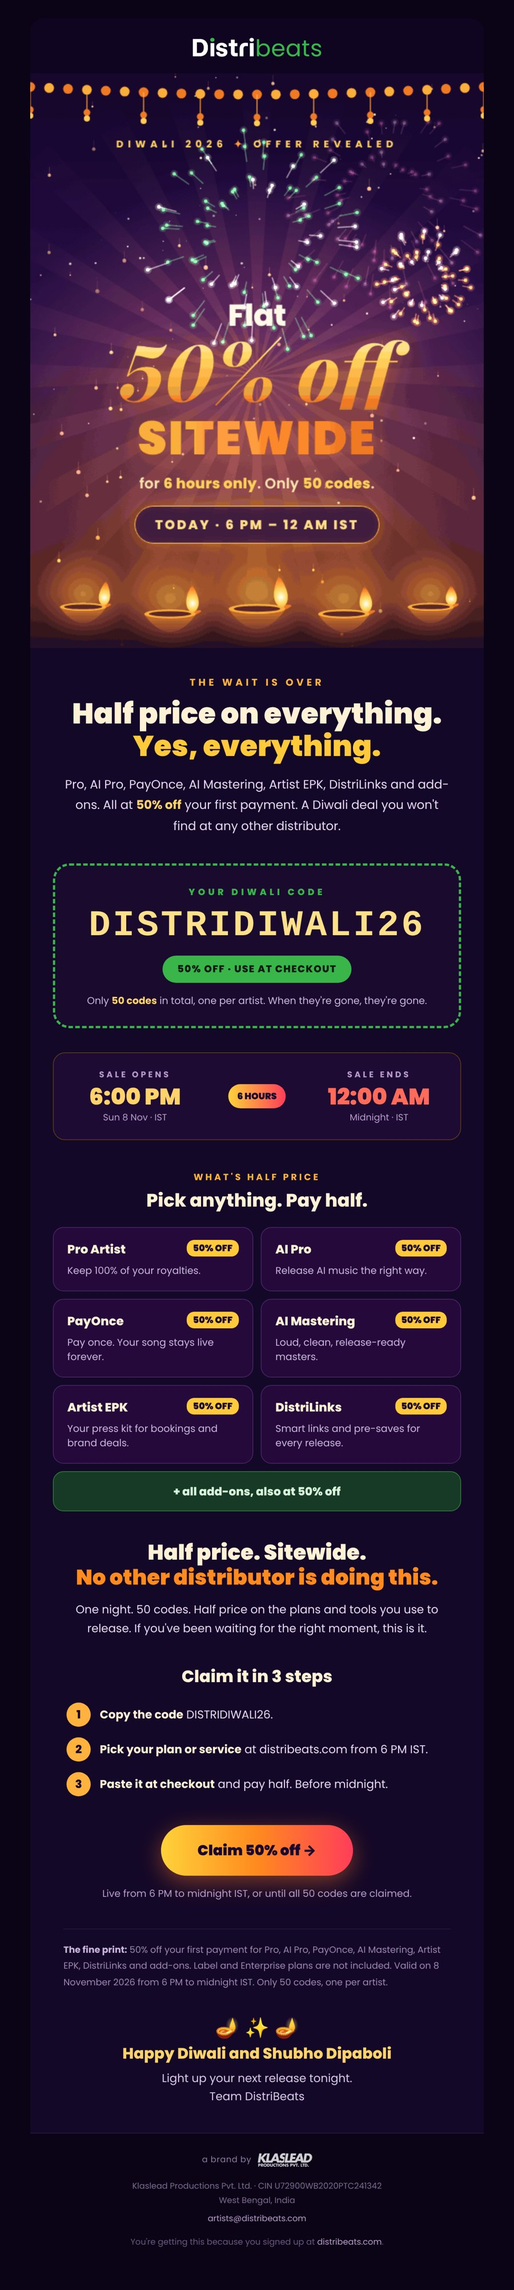
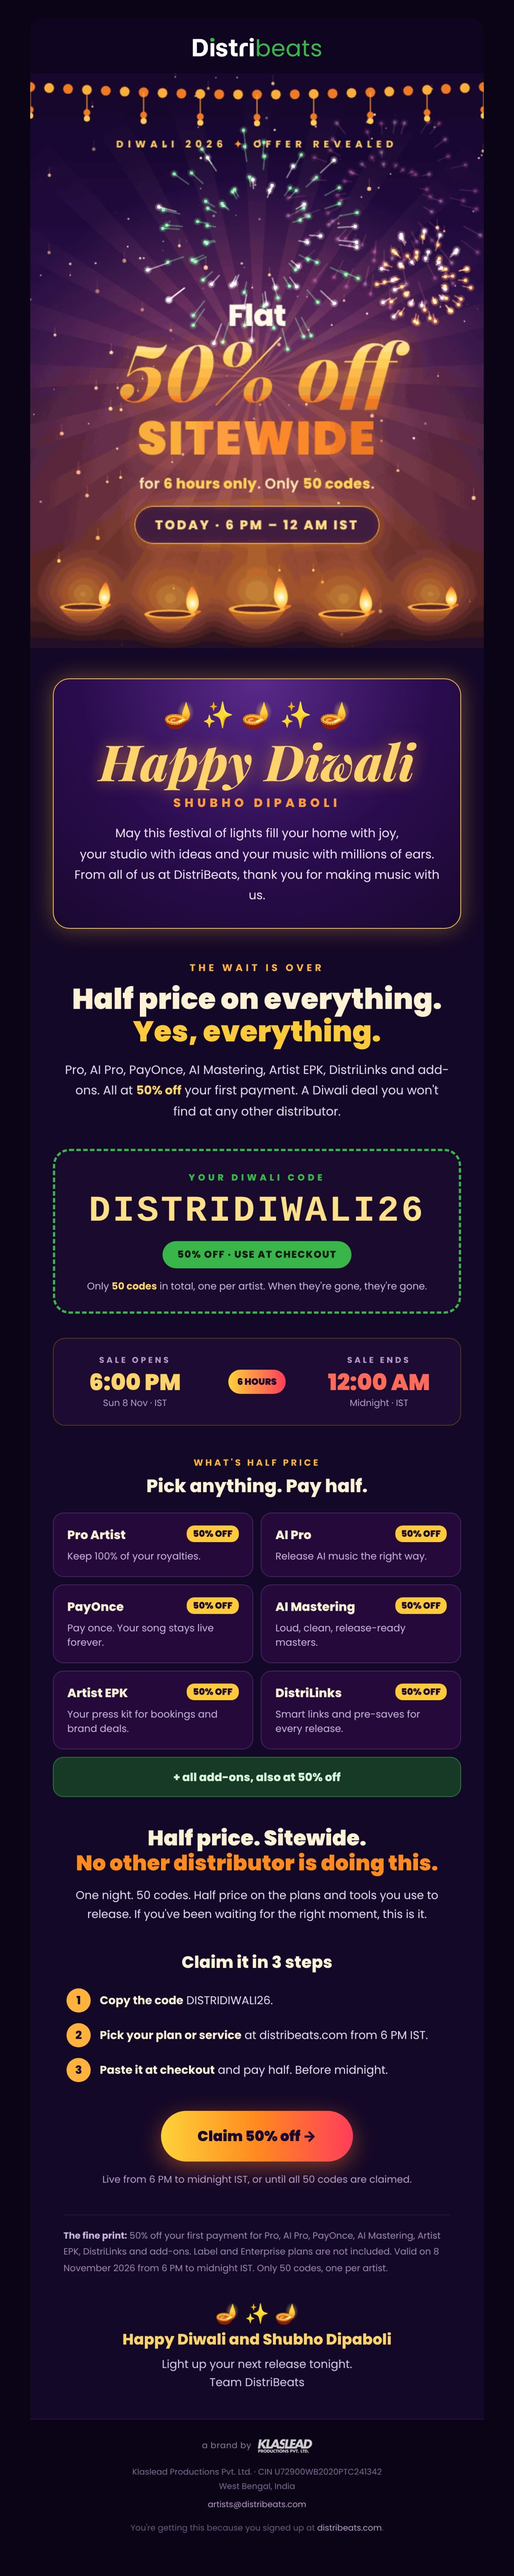
50% off newsletter: add big Happy Diwali wish
Claude-Session: https://claude.ai/code/session_01A8thwr9eD2xAMvqyaZCdxQ

diff --git a/newsletters/2026-11-08-diwali-50-off/newsletter.html b/newsletters/2026-11-08-diwali-50-off/newsletter.html
@@ -6,7 +6,7 @@
 <meta name="x-apple-disable-message-reformatting">
 <meta name="color-scheme" content="dark">
 <meta name="supported-color-schemes" content="dark">
-<link href="https://fonts.googleapis.com/css2?family=Poppins:wght@400;600;700;800;900&display=swap" rel="stylesheet">
+<link href="https://fonts.googleapis.com/css2?family=Poppins:wght@400;600;700;800;900&family=Playfair+Display:ital,wght@1,800&display=swap" rel="stylesheet">
 <title>Flat 50% off sitewide, 6 hours only</title>
 <style>
   body{margin:0;padding:0;background:#0b0416;}
@@ -17,6 +17,7 @@
     .wrap{width:100% !important;}
     .px{padding-left:20px !important;padding-right:20px !important;}
     .h1{font-size:30px !important;}
+    .wish{font-size:50px !important;}
     .code{font-size:30px !important;letter-spacing:2px !important;}
     .tile{display:block !important;width:100% !important;box-sizing:border-box !important;margin-bottom:10px !important;}
     .tgap{display:none !important;}
@@ -44,6 +45,18 @@ It's here. Flat 50% off sitewide with code DISTRIDIWALI26. Today, 6 PM to midnig
   <!-- Hero -->
   <tr><td>
     <a href="https://distribeats.com" target="_blank"><img src="https://raw.githubusercontent.com/klaslead/distribeats/claude/project-thread-6a2x4o/newsletters/2026-11-08-diwali-50-off/hero-offer.gif" width="600" alt="Flat 50% off sitewide. 6 hours only, today 6 PM to 12 AM IST. Only 50 codes." style="width:100%;max-width:600px;height:auto;"></a>
+  </td></tr>
+
+  <!-- Big Diwali wish -->
+  <tr><td class="px" align="center" style="padding:40px 30px 6px 30px;">
+    <table role="presentation" width="100%" cellpadding="0" cellspacing="0" border="0" style="background:#2a0c4e;background-image:radial-gradient(circle at 50% 0%,#5a2a8a 0%,#2a0c4e 55%,#1a0830 100%);border:1.5px solid #ffcb52;border-radius:22px;border-collapse:separate;box-shadow:0 0 30px rgba(255,190,60,.35);">
+      <tr><td align="center" style="padding:30px 20px 30px 20px;font-family:Poppins,'Segoe UI',Helvetica,Arial,sans-serif;">
+        <p style="margin:0 0 10px 0;font-size:34px;line-height:1;">&#129684; &#10024; &#129684; &#10024; &#129684;</p>
+        <p class="wish" style="margin:0;font-family:'Playfair Display',Georgia,'Times New Roman',serif;font-style:italic;font-weight:800;font-size:66px;line-height:1.05;color:#ffd36b;text-shadow:0 0 22px rgba(255,170,40,.55);">Happy Diwali</p>
+        <p style="margin:8px 0 14px 0;font-size:16px;letter-spacing:5px;font-weight:800;color:#ff9a3c;">SHUBHO DIPABOLI</p>
+        <p style="margin:0;font-size:16px;line-height:1.7;color:#f0e2fa;">May this festival of lights fill your home with joy,<br>your studio with ideas and your music with millions of ears.<br>From all of us at DistriBeats, thank you for making music with us.</p>
+      </td></tr>
+    </table>
   </td></tr>
 
   <!-- Intro -->
